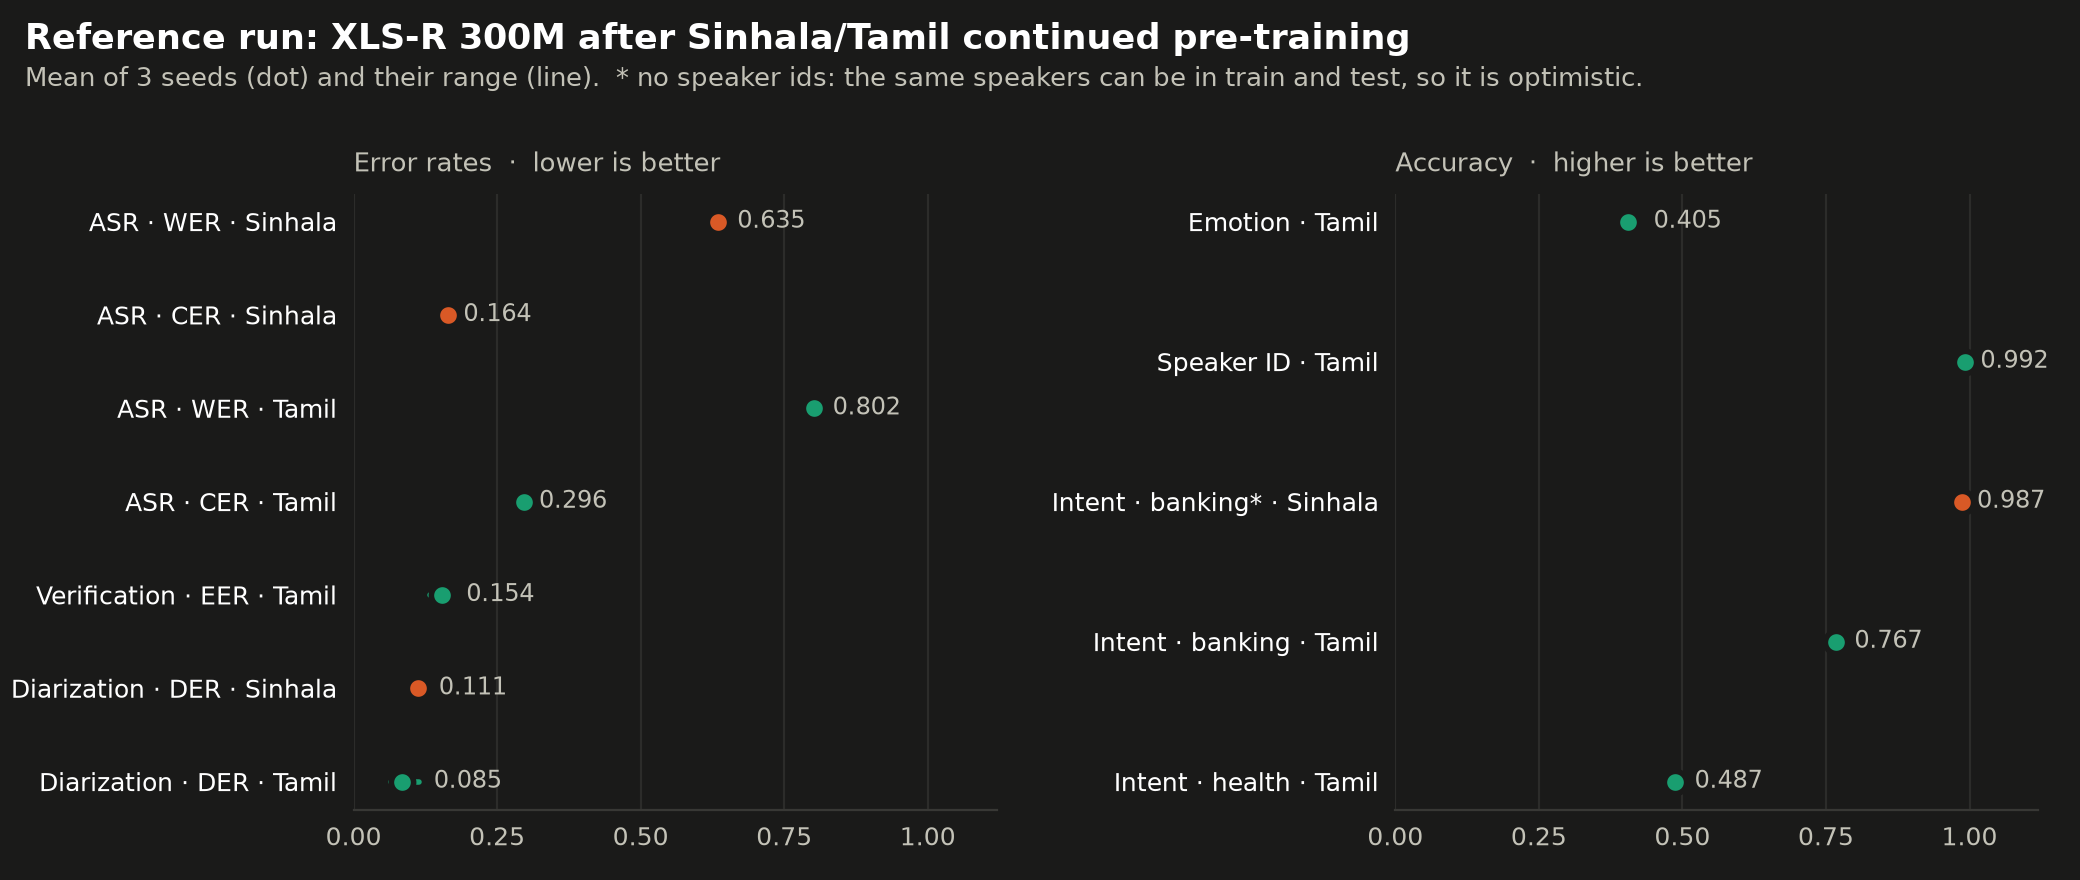
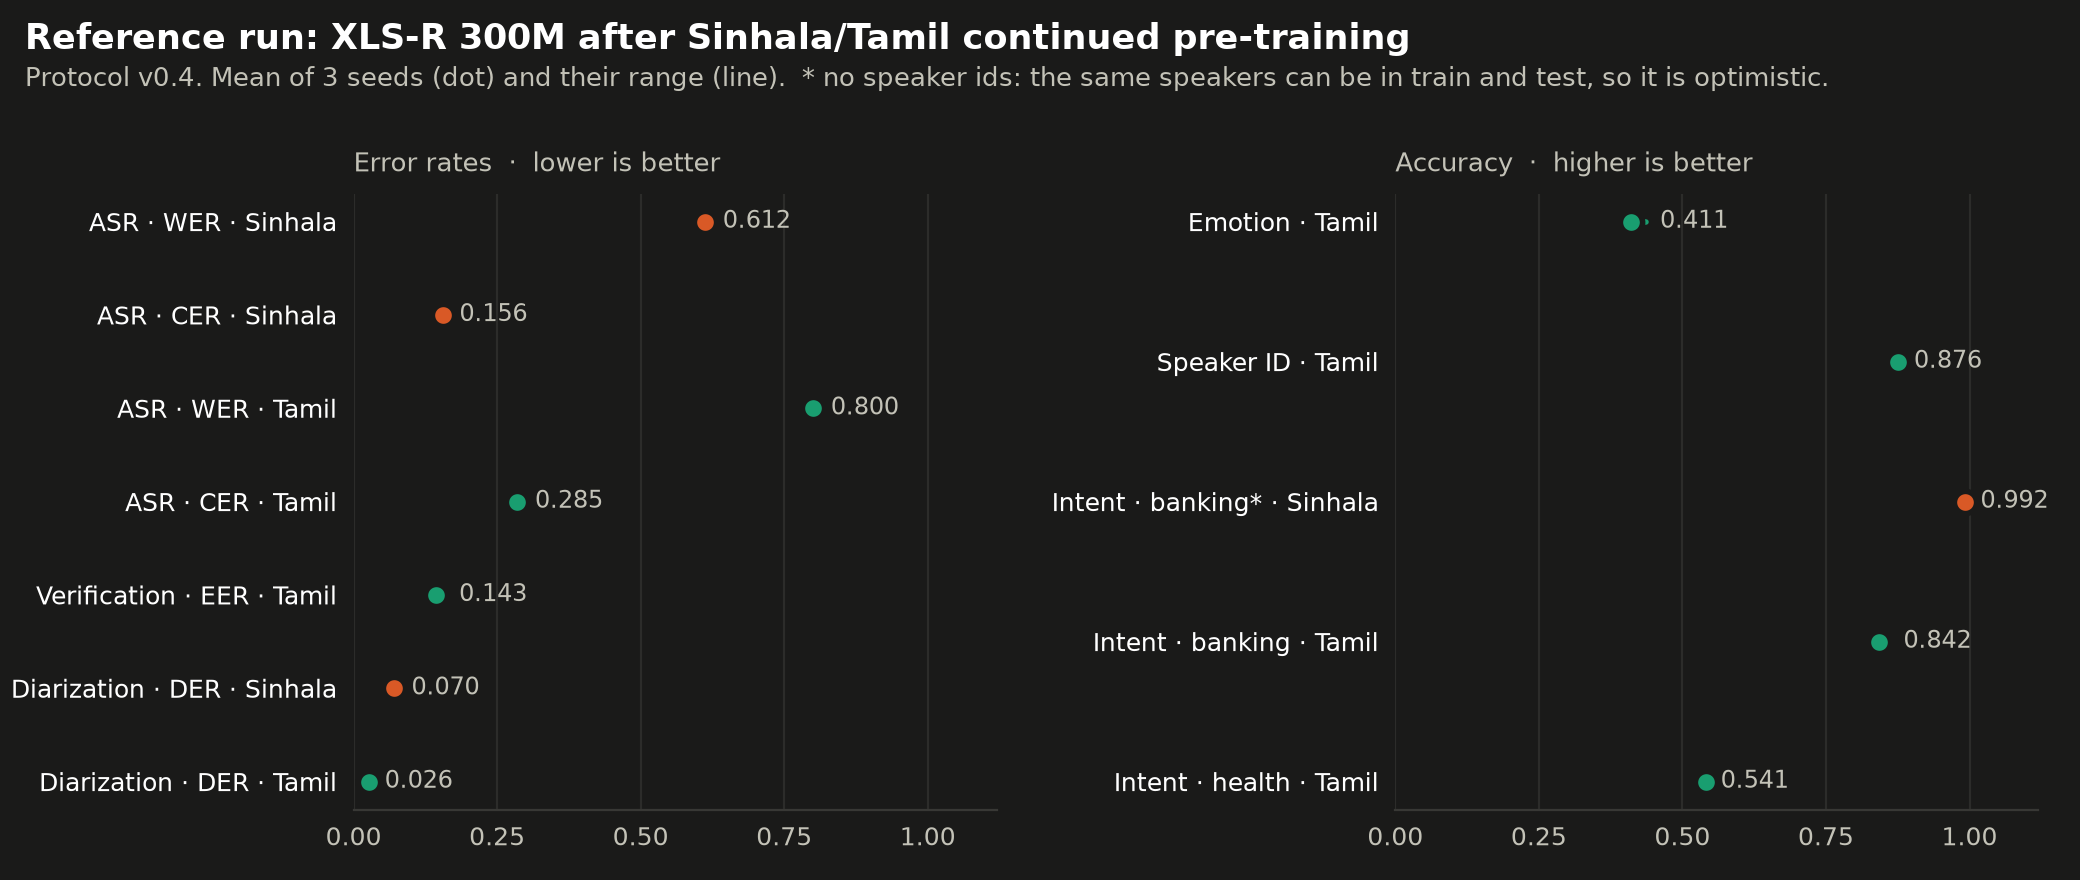
docs: reference results under protocol v0.4
The README and docs/results.md showed the v0.2 reference run. They now show
adapted XLS-R 300M (checkpoint 9000) under v0.4: nine tasks from its v0.3 run,
speaker identification re-run under v0.4 (accuracy 0.876, was 0.996 on seen
videos). Adds a protocol-comparability table, points to the slsb-v0.4 DagsHub
experiment for the ten-model comparison, and regenerates the figures and CSVs.

diff --git a/docs/scripts/make_figures.py b/docs/scripts/make_figures.py
@@ -30,7 +30,7 @@ REPO = Path(__file__).resolve().parents[2]
 OUT = REPO / "docs" / "assets"
 TABLES = REPO / "docs" / "results"
 TASKS_CSV = TABLES / "tasks.csv"
-RESULTS_CSV = TABLES / "reference_xlsr300m_norm_v0.2.csv"
+RESULTS_CSV = TABLES / "reference_xlsr300m_copt200h_norm_v0.4.csv"
 
 THEMES = {
     "light": dict(surface="#fcfcfb", ink="#0b0b0b", ink2="#52514e", muted="#898781",
@@ -105,7 +105,9 @@ def refresh(results_dirs):
                 speakers = len({Path(f).stem.rsplit("_", 1)[0] for f in files})
             else:
                 speakers = ""
-            scheme = "5 folds" if "folds" in split else "train/dev/test"
+            scheme = ("5 folds" if "folds" in split else
+                      "train/dev/test, unseen videos" if split["split_type"].startswith("video_disjoint")
+                      else "train/dev/test")
         rows.append(dict(task=task, family=family, language=lang, source=source, split_type=split["split_type"],
                          scheme=scheme, clips=clips, hours=round(hrs, 2), speakers=speakers))
     TABLES.mkdir(parents=True, exist_ok=True)
@@ -224,7 +226,7 @@ def fig_results(t, theme):
         ax.set_xticks([0, 0.25, 0.5, 0.75, 1.0])
         ax.set_title(heading, loc="left", fontsize=9.5, color=t["ink2"], pad=8)
     title(fig, t, "Reference run: XLS-R 300M after Sinhala/Tamil continued pre-training",
-          "Mean of 3 seeds (dot) and their range (line).  * no speaker ids: the same speakers can be in train "
+          "Protocol v0.4. Mean of 3 seeds (dot) and their range (line).  * no speaker ids: the same speakers can be in train "
           "and test, so it is optimistic.")
     fig.subplots_adjust(left=0.17, right=0.98, top=0.78, bottom=0.08)
     save(fig, "fig2-reference-results", theme)

diff --git a/docs/results.md b/docs/results.md
@@ -5,8 +5,9 @@
 **Upstream:** XLS-R 300M (`facebook/wav2vec2-xls-r-300m`) after continued pre-training on
 200 h of Sinhala and Tamil with normalised audio, in
 [Model-Training-Pipeline](https://github.com/EchoVerge-Labs/Model-Training-Pipeline),
-checkpoint 9000. **Protocol** v0.2 (slsb 0.2.0), **seeds** 0, 1, 2, on one NVIDIA GB10 GPU.
-The run took about 3 hours.
+checkpoint 9000. **Protocol** v0.4, **seeds** 0, 1, 2, on one NVIDIA GB10 GPU. Nine tasks
+were run under v0.3 (slsb 0.3.0); speaker identification, the only task v0.4 changed, was
+re-run under v0.4 (slsb 0.4.0). A full run takes about 2 hours.
 
 <picture>
   <source media="(prefers-color-scheme: dark)" srcset="assets/fig2-reference-results-dark.png">
@@ -15,46 +16,51 @@ The run took about 3 hours.
 
 | Task | Language | Metric | Mean ± s.d. (3 seeds) |
 |---|---|---|---|
-| ASR | Sinhala | WER ↓ | 0.635 ± 0.008 |
-| ASR | Sinhala | CER ↓ | 0.164 ± 0.002 |
-| ASR | Tamil | WER ↓ | 0.802 ± 0.006 |
-| ASR | Tamil | CER ↓ | 0.296 ± 0.002 |
-| Emotion recognition | Tamil | Accuracy ↑ | 0.405 ± 0.018 |
-| Emotion recognition | Tamil | Macro-F1 ↑ | 0.387 ± 0.033 |
-| Speaker identification | Tamil | Accuracy ↑ | 0.992 ± 0.003 |
-| Speaker identification | Tamil | Macro-F1 ↑ | 0.992 ± 0.002 |
-| Speaker verification | Tamil | EER ↓ | 0.154 ± 0.019 |
-| Speaker diarization | Sinhala | DER ↓ | 0.111 ± 0.011 |
-| Speaker diarization | Tamil | DER ↓ | 0.085 ± 0.026 |
-| Intent · banking | Sinhala | Accuracy ↑ | 0.987 ± 0.002 \* |
-| Intent · banking | Sinhala | Macro-F1 ↑ | 0.987 ± 0.002 \* |
-| Intent · banking | Tamil | Accuracy ↑ | 0.767 ± 0.007 |
-| Intent · banking | Tamil | Macro-F1 ↑ | 0.749 ± 0.008 |
-| Intent · health | Tamil | Accuracy ↑ | 0.487 ± 0.009 |
-| Intent · health | Tamil | Macro-F1 ↑ | 0.476 ± 0.008 |
+| ASR | Sinhala | WER ↓ | 0.612 ± 0.006 |
+| ASR | Sinhala | CER ↓ | 0.156 ± 0.003 |
+| ASR | Tamil | WER ↓ | 0.800 ± 0.006 |
+| ASR | Tamil | CER ↓ | 0.285 ± 0.006 |
+| Emotion recognition | Tamil | Accuracy ↑ | 0.411 ± 0.022 |
+| Emotion recognition | Tamil | Macro-F1 ↑ | 0.393 ± 0.031 |
+| Speaker identification | Tamil | Accuracy ↑ | 0.876 ± 0.003 |
+| Speaker identification | Tamil | Macro-F1 ↑ | 0.856 ± 0.005 |
+| Speaker verification | Tamil | EER ↓ | 0.143 ± 0.016 |
+| Speaker diarization | Sinhala | DER ↓ | 0.070 ± 0.007 |
+| Speaker diarization | Tamil | DER ↓ | 0.026 ± 0.003 |
+| Intent · banking | Sinhala | Accuracy ↑ | 0.992 ± 0.002 \* |
+| Intent · banking | Sinhala | Macro-F1 ↑ | 0.992 ± 0.002 \* |
+| Intent · banking | Tamil | Accuracy ↑ | 0.842 ± 0.017 |
+| Intent · banking | Tamil | Macro-F1 ↑ | 0.827 ± 0.018 |
+| Intent · health | Tamil | Accuracy ↑ | 0.541 ± 0.000 |
+| Intent · health | Tamil | Macro-F1 ↑ | 0.530 ± 0.001 |
 
 \* Optimistic: no speaker information, so the same speakers can be in train and test.
 
-Per-seed values are in [`results/reference_xlsr300m_norm_v0.2.csv`](results/reference_xlsr300m_norm_v0.2.csv).
+Per-seed values are in [`results/reference_xlsr300m_copt200h_norm_v0.4.csv`](results/reference_xlsr300m_copt200h_norm_v0.4.csv).
+The other models are compared on DagsHub, in the `slsb-v0.4` experiment.
 
 ### Reading these numbers
 
 - **Diarization DER is almost entirely speaker confusion.** With oracle speech regions,
   missed speech is about 1% (overlap) and false alarm is 0.
-- **Speaker identification is near ceiling** over 40 Tamil speakers. It mainly separates
-  weak upstreams from adequate ones.
+- **Intent · banking Sinhala is near ceiling** (0.97–0.99 for every model benchmarked) and
+  separates models poorly; speaker identification, near ceiling under v0.3, is no longer
+  (0.84–0.89 under v0.4).
 - **Run-to-run variation.** ASR's BiLSTM uses non-deterministic GPU kernels, so re-running
   the same seed moves WER by about ±0.01. Differences smaller than that, or than the
   seed s.d., should not be read as real.
 - **Scale differs by language.** Absolute WER, CER and accuracy depend on the corpus and
   script, so compare upstreams within a task, not tasks with each other.
 
-## Not comparable: protocol v0.1
+## Comparing across protocol versions
 
-v0.1 trained a single linear layer for a fixed 10 epochs with no dev set. Its splits also
-leaked: Sinhala ASR test speakers were also in training, and verification was trained on
-its own test speakers. v0.1 scores, including the frozen-encoder baselines produced with
-it, must not be put next to v0.2 scores. See the [changelog](../CHANGELOG.md).
+| From → to | Comparable? |
+|---|---|
+| v0.1 → anything later | **No.** v0.1 trained one linear layer for 10 epochs with no dev set, and its splits leaked (Sinhala ASR test speakers in training; verification trained on its own test speakers). |
+| v0.2 → v0.3 | **No.** v0.3 layer-normalises every upstream layer, which changes every task's input. |
+| v0.3 → v0.4 | **Yes, except speaker identification**, which v0.4 splits by unseen videos. Every other task is identical, which is why v0.4 runs may carry them over (`log_results.py --carry-over`). |
+
+See the [changelog](../CHANGELOG.md) for each version's changes.
 
 ## Regenerating the figures and tables
 
@@ -68,5 +74,5 @@ python docs/scripts/make_figures.py --refresh results/<run> [results/<rerun>] --
 ```
 
 `--refresh` takes one or more run directories; a later one replaces an earlier one task by
-task. This run's diarization was re-run after a data fix, so it combines
-`results/xlsr300m_norm_v0.2_final` and `results/xlsr300m_norm_v0.2_final_sd`.
+task. The reference run combines `results/v0.3/xlsr300m_copt200h_norm` (nine tasks) and
+`results/v0.4/xlsr300m_copt200h_norm_sid` (speaker identification).

diff --git a/README.md b/README.md
@@ -95,34 +95,34 @@ seeds, feature caching, hyperparameters and leakage checks.
 
 <picture>
   <source media="(prefers-color-scheme: dark)" srcset="docs/assets/fig2-reference-results-dark.png">
-  <img alt="Reference run of XLS-R 300M after continued pre-training on 200 h of Sinhala and Tamil. Error rates: ASR WER 0.635 Sinhala and 0.802 Tamil, CER 0.164 and 0.296, verification EER 0.154, diarization DER 0.111 Sinhala and 0.085 Tamil. Accuracy: emotion 0.405, speaker ID 0.992, intent banking 0.987 Sinhala and 0.767 Tamil, intent health 0.487." src="docs/assets/fig2-reference-results-light.png">
+  <img alt="Reference run of XLS-R 300M after continued pre-training on 200 h of Sinhala and Tamil, protocol v0.4. Error rates: ASR WER 0.612 Sinhala and 0.800 Tamil, CER 0.156 and 0.285, verification EER 0.143, diarization DER 0.070 Sinhala and 0.026 Tamil. Accuracy: emotion 0.411, speaker ID 0.876, intent banking 0.992 Sinhala and 0.842 Tamil, intent health 0.541." src="docs/assets/fig2-reference-results-light.png">
 </picture>
 
 **XLS-R 300M after continued pre-training** on 200 h of Sinhala and Tamil
 ([Model-Training-Pipeline](https://github.com/EchoVerge-Labs/Model-Training-Pipeline),
-checkpoint 9000), **v0.2 protocol**, 3 seeds. These predate v0.3's per-layer layer norm and
-are not comparable with v0.3 scores; the reference model is being re-run under v0.3:
+checkpoint 9000), **protocol v0.4**, 3 seeds:
 
 | Task | Language | Metric | Mean ± s.d. |
 |---|---|---|---|
-| ASR | Sinhala | WER ↓ / CER ↓ | 0.635 ± 0.008 / 0.164 ± 0.002 |
-| ASR | Tamil | WER ↓ / CER ↓ | 0.802 ± 0.006 / 0.296 ± 0.002 |
-| Emotion recognition | Tamil | accuracy ↑ / macro-F1 ↑ | 0.405 ± 0.018 / 0.387 ± 0.033 |
-| Speaker identification | Tamil | accuracy ↑ | 0.992 ± 0.003 |
-| Speaker verification | Tamil | EER ↓ | 0.154 ± 0.019 |
-| Speaker diarization | Sinhala | DER ↓ | 0.111 ± 0.011 |
-| Speaker diarization | Tamil | DER ↓ | 0.085 ± 0.026 |
-| Intent · banking | Sinhala | accuracy ↑ | 0.987 ± 0.002 \* |
-| Intent · banking | Tamil | accuracy ↑ | 0.767 ± 0.007 |
-| Intent · health | Tamil | accuracy ↑ | 0.487 ± 0.009 |
+| ASR | Sinhala | WER ↓ / CER ↓ | 0.612 ± 0.006 / 0.156 ± 0.003 |
+| ASR | Tamil | WER ↓ / CER ↓ | 0.800 ± 0.006 / 0.285 ± 0.006 |
+| Emotion recognition | Tamil | accuracy ↑ / macro-F1 ↑ | 0.411 ± 0.022 / 0.393 ± 0.031 |
+| Speaker identification | Tamil | accuracy ↑ / macro-F1 ↑ | 0.876 ± 0.003 / 0.856 ± 0.005 |
+| Speaker verification | Tamil | EER ↓ | 0.143 ± 0.016 |
+| Speaker diarization | Sinhala | DER ↓ | 0.070 ± 0.007 |
+| Speaker diarization | Tamil | DER ↓ | 0.026 ± 0.003 |
+| Intent · banking | Sinhala | accuracy ↑ | 0.992 ± 0.002 \* |
+| Intent · banking | Tamil | accuracy ↑ | 0.842 ± 0.017 |
+| Intent · health | Tamil | accuracy ↑ | 0.541 ± 0.000 |
 
 \* No speaker information exists for this dataset, so the same speakers can appear in train
 and test, which flatters the score.
 
-These are reference numbers for a single model, not a leaderboard. Scores from protocol
-v0.1 are **not comparable** with these, and the baseline encoders (XLS-R, WavLM, HuBERT,
-mHuBERT-147, wav2vec 2.0) are being re-run under v0.3. Every number above is read from
-[`docs/results/`](docs/results/); see [docs/results.md](docs/results.md).
+These are reference numbers for one model. All ten models benchmarked so far (five frozen
+encoders and their continued-pre-training counterparts) are compared in the
+[`slsb-v0.4` experiment on DagsHub](https://dagshub.com/EchoVerge-LABS/SLSB-benchmark/experiments),
+one row per model. Scores from different protocol versions are not comparable. Every number
+above is read from [`docs/results/`](docs/results/); see [docs/results.md](docs/results.md).
 
 ## Quick start
 
